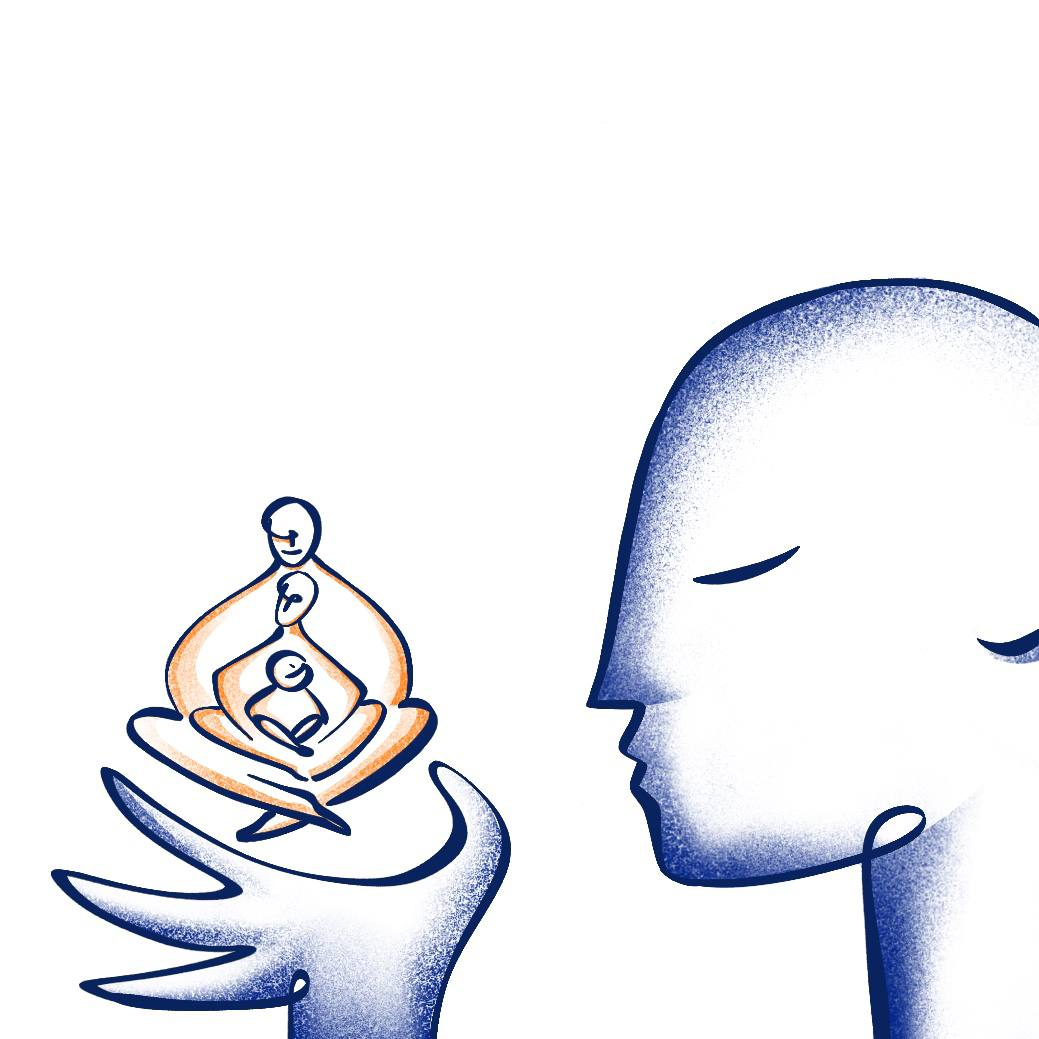
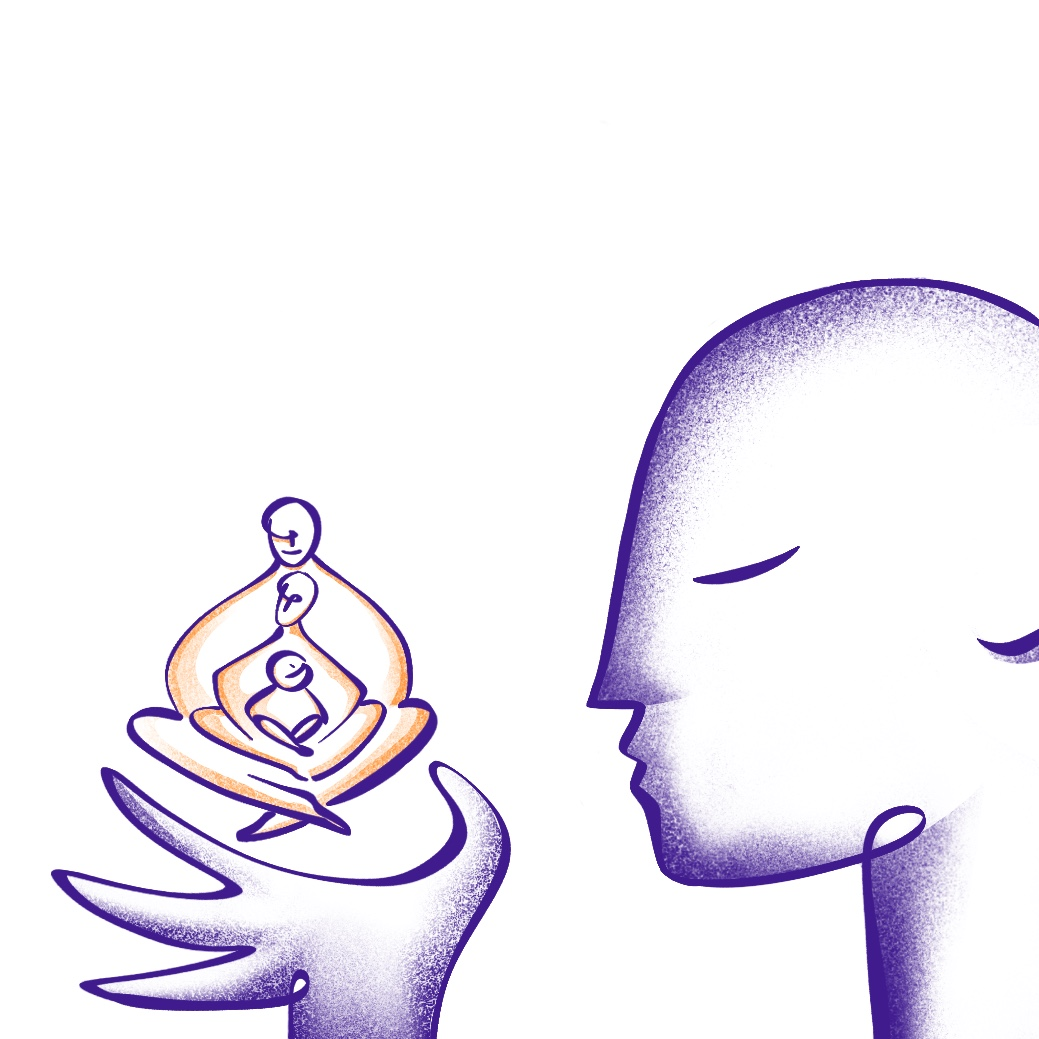
feat: update illustrations

diff --git a/src/app/landing/components/Feedback/Feedback.tsx b/src/app/landing/components/Feedback/Feedback.tsx
@@ -75,9 +75,10 @@ export default function Feedback(): JSX.Element {
           <Image
             src={illustration}
             alt={''}
-            width={821}
-            height={593}
+            width={820}
+            height={580}
             quality={80}
+            sizes="820px"
             placeholder="blur"
           />
         </div>
@@ -96,9 +97,6 @@ export default function Feedback(): JSX.Element {
                 </div>
               ))}
             </div>
-            {/* <Slide img={photoStudent1} alt="студент 01" />
-          <Slide img={photoStudent2} alt="студент 02" />
-          <Slide img={photoStudent3} alt="студент 03" /> */}
           </div>
 
           <div className={styles.bottom}>

diff --git a/src/app/landing/components/Feedback/Feedback.module.scss b/src/app/landing/components/Feedback/Feedback.module.scss
@@ -19,11 +19,10 @@
   right: 50%;
   z-index: -1;
   width: 821px;
-  height: 593px;
   img {
     display: block;
     width: 100%;
-    height: 100%;
+    height: auto;
     object-fit: cover;
   }
   &::before {
@@ -120,7 +119,3 @@
     color: var(--color-accent-additional);
   }
 }
-
-// .activeSlide {
-//   width: 450px;
-// }

diff --git a/src/app/landing/components/Curators/Curators.tsx b/src/app/landing/components/Curators/Curators.tsx
@@ -113,8 +113,9 @@ export default function Curators(): JSX.Element {
           src={illustration}
           alt={''}
           width={876}
-          height={516}
+          height={425}
           quality={80}
+          sizes="880px"
           placeholder="blur"
         />
       </div>

diff --git a/src/app/landing/components/WhyNeed/WhyNeed.tsx b/src/app/landing/components/WhyNeed/WhyNeed.tsx
@@ -22,6 +22,7 @@ export default function WhyNeed(): JSX.Element {
             alt={'Юрий Менячихин'}
             width={572}
             height={488}
+            sizes="580px"
             quality={80}
             placeholder="blur"
           />

diff --git a/src/app/landing/components/Hero/Hero.tsx b/src/app/landing/components/Hero/Hero.tsx
@@ -42,6 +42,8 @@ export default function Hero(): JSX.Element {
             width={639}
             height={639}
             quality={80}
+            sizes="640px"
+            priority={true}
             placeholder="blur"
           />
         </div>

diff --git a/src/app/landing/components/Registration/Registration.tsx b/src/app/landing/components/Registration/Registration.tsx
@@ -18,6 +18,7 @@ export default function Registration(): JSX.Element {
             width={728}
             height={645}
             quality={80}
+            sizes="730px"
             placeholder="blur"
           />
         </div>

diff --git a/src/app/landing/components/Curators/Curators.module.scss b/src/app/landing/components/Curators/Curators.module.scss
@@ -76,6 +76,7 @@
   img {
     display: block;
     width: 100%;
+    height: auto;
     max-width: 876px;
     margin: 0 auto;
   }
